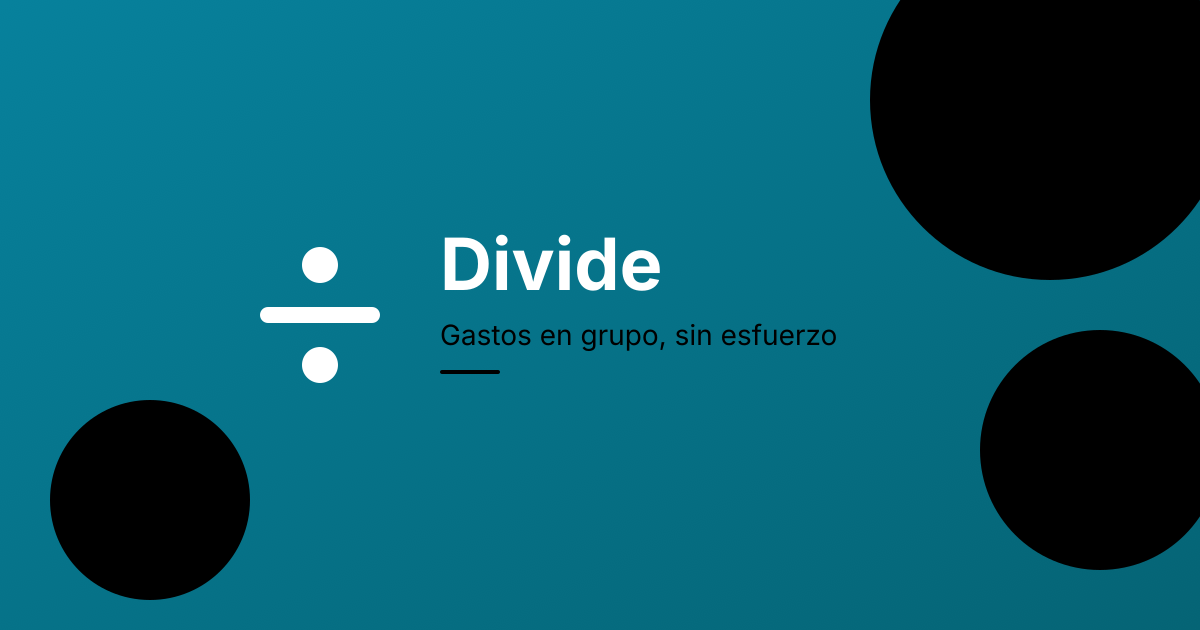
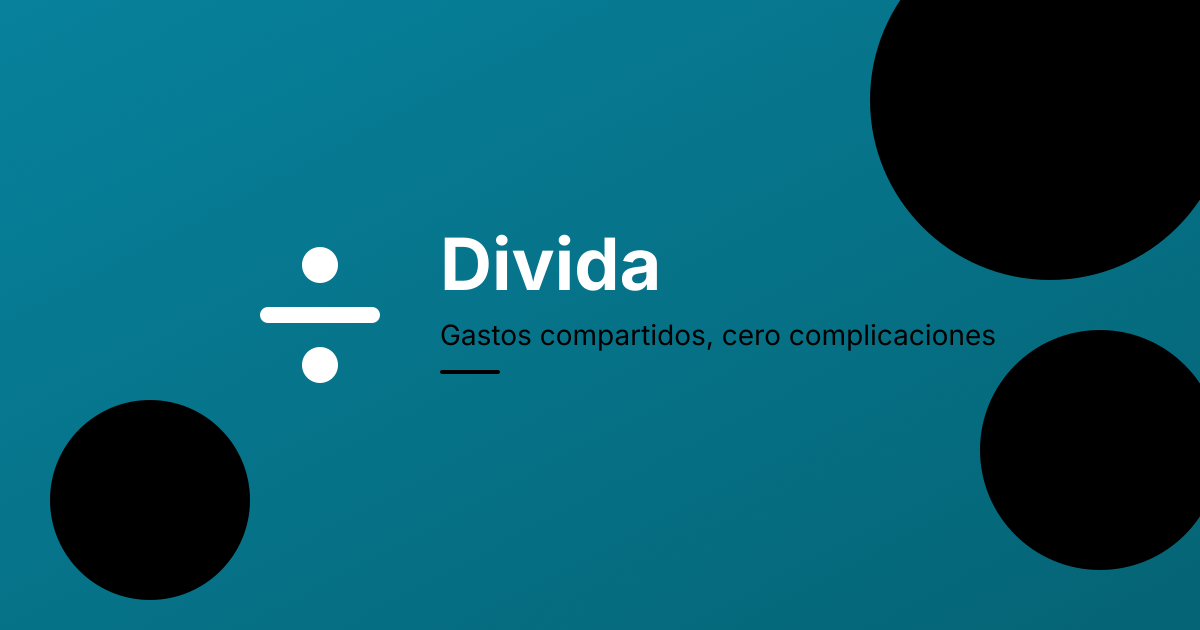
feat: rebrand to Divida — divida.es

Changed region(s): [[0.4625, 0.5127, 0.8325, 0.573], [0.5242, 0.3921, 0.555, 0.4825]]

diff --git a/index.html b/index.html
@@ -13,18 +13,18 @@
     <link rel="preconnect" href="https://fonts.googleapis.com" />
     <link rel="preconnect" href="https://fonts.gstatic.com" crossorigin />
     <link href="https://fonts.googleapis.com/css2?family=Inter:wght@400;500;600;700&display=swap" rel="stylesheet" />
-    <title>Divide — Gastos en grupo, sin esfuerzo</title>
-    <meta property="og:title" content="Divide — Gastos en grupo, sin esfuerzo" />
+    <title>Divida — Gastos compartidos, cero complicaciones</title>
+    <meta property="og:title" content="Divida — Gastos compartidos, cero complicaciones" />
     <meta property="og:description" content="Reparte gastos con amigos al instante. Sin hojas de cálculo, sin complicaciones." />
-    <meta property="og:image" content="https://divide-app.netlify.app/og-image.png" />
+    <meta property="og:image" content="https://divida.es/og-image.png" />
     <meta property="og:image:width" content="1200" />
     <meta property="og:image:height" content="630" />
-    <meta property="og:url" content="https://divide-app.netlify.app" />
+    <meta property="og:url" content="https://divida.es" />
     <meta property="og:type" content="website" />
     <meta name="twitter:card" content="summary_large_image" />
-    <meta name="twitter:title" content="Divide — Gastos en grupo, sin esfuerzo" />
+    <meta name="twitter:title" content="Divida — Gastos compartidos, cero complicaciones" />
     <meta name="twitter:description" content="Reparte gastos con amigos al instante. Sin hojas de cálculo, sin complicaciones." />
-    <meta name="twitter:image" content="https://divide-app.netlify.app/og-image.png" />
+    <meta name="twitter:image" content="https://divida.es/og-image.png" />
   </head>
   <body>
     <div id="root"></div>

diff --git a/src/components/layout/Shell.tsx b/src/components/layout/Shell.tsx
@@ -87,7 +87,7 @@ export function Shell() {
               }}
             >
               <Divide size={22} color="#07819C" />
-              <span>Divide</span>
+              <span>Divida</span>
             </Link>
           )}
         </div>
@@ -107,7 +107,7 @@ export function Shell() {
       </main>
 
       <footer className={styles.footer}>
-        <span>Divide v{APP_VERSION} · Oscar Suarez{IS_PRE && <span style={{ marginLeft: 8, fontSize: 11, background: "#FDE68A", color: "#92400E", padding: "1px 6px", borderRadius: 4, fontWeight: 600 }}>PRE</span>}</span>
+        <span>Divida v{APP_VERSION} · divida.es{IS_PRE && <span style={{ marginLeft: 8, fontSize: 11, background: "#FDE68A", color: "#92400E", padding: "1px 6px", borderRadius: 4, fontWeight: 600 }}>PRE</span>}</span>
       </footer>
 
       <Modal open={showChangePwd} onClose={() => setShowChangePwd(false)} title="Cambiar contraseña">

diff --git a/src/pages/DashboardPage.tsx b/src/pages/DashboardPage.tsx
@@ -91,7 +91,7 @@ export function DashboardPage() {
       {groups.length === 0 ? (
         <Card className={styles.empty}>
           <p style={{ fontSize: 15, marginBottom: 8 }}>Aún no tienes grupos</p>
-          <p style={{ fontSize: 13, color: "#6B7280", marginBottom: 12 }}>Divide gastos con amigos sin hojas de cálculo</p>
+          <p style={{ fontSize: 13, color: "#6B7280", marginBottom: 12 }}>Gestiona gastos compartidos sin complicaciones</p>
           <Button onClick={() => setShowCreate(true)} size="sm">
             <Plus size={16} /> Crear tu primer grupo
           </Button>

diff --git a/src/App.tsx b/src/App.tsx
@@ -15,7 +15,7 @@ function ProtectedRoute({ children }: { children: React.ReactNode }) {
   if (loading) return (
     <div className={styles.splash}>
       <Divide size={48} color="#07819C" />
-      <span className={styles.splashText}>Divide</span>
+      <span className={styles.splashText}>Divida</span>
     </div>
   );
   if (!user) return <Navigate to="/login" replace />;

diff --git a/src/pages/LoginPage.tsx b/src/pages/LoginPage.tsx
@@ -112,7 +112,7 @@ export function LoginPage() {
       <Card className={styles.card}>
         <div className={styles.brand}>
           <Divide size={32} color="#07819C" />
-          <h1>Divide</h1>
+          <h1>Divida</h1>
         </div>
 
         <form ref={formRef} onSubmit={handleSubmit} className={styles.form}>

diff --git a/src/pages/GroupDetailPage.tsx b/src/pages/GroupDetailPage.tsx
@@ -353,7 +353,7 @@ export function GroupDetailPage() {
       `;
       footer.appendChild(divideSvg);
       const label = document.createElement("span");
-      label.textContent = "Divide";
+      label.textContent = "Divida";
       label.style.cssText = `
         font-size: 10px;
         font-weight: 600;

diff --git a/src/components/groups/InviteSection.tsx b/src/components/groups/InviteSection.tsx
@@ -7,7 +7,7 @@ import QRCode from "qrcode";
 import { generateInviteCode } from "../../services/groups";
 import styles from "./InviteSection.module.css";
 
-const BASE_URL = "https://divide-app.netlify.app";
+const BASE_URL = "https://divida.es";
 
 interface Props {
   groupId: string;
